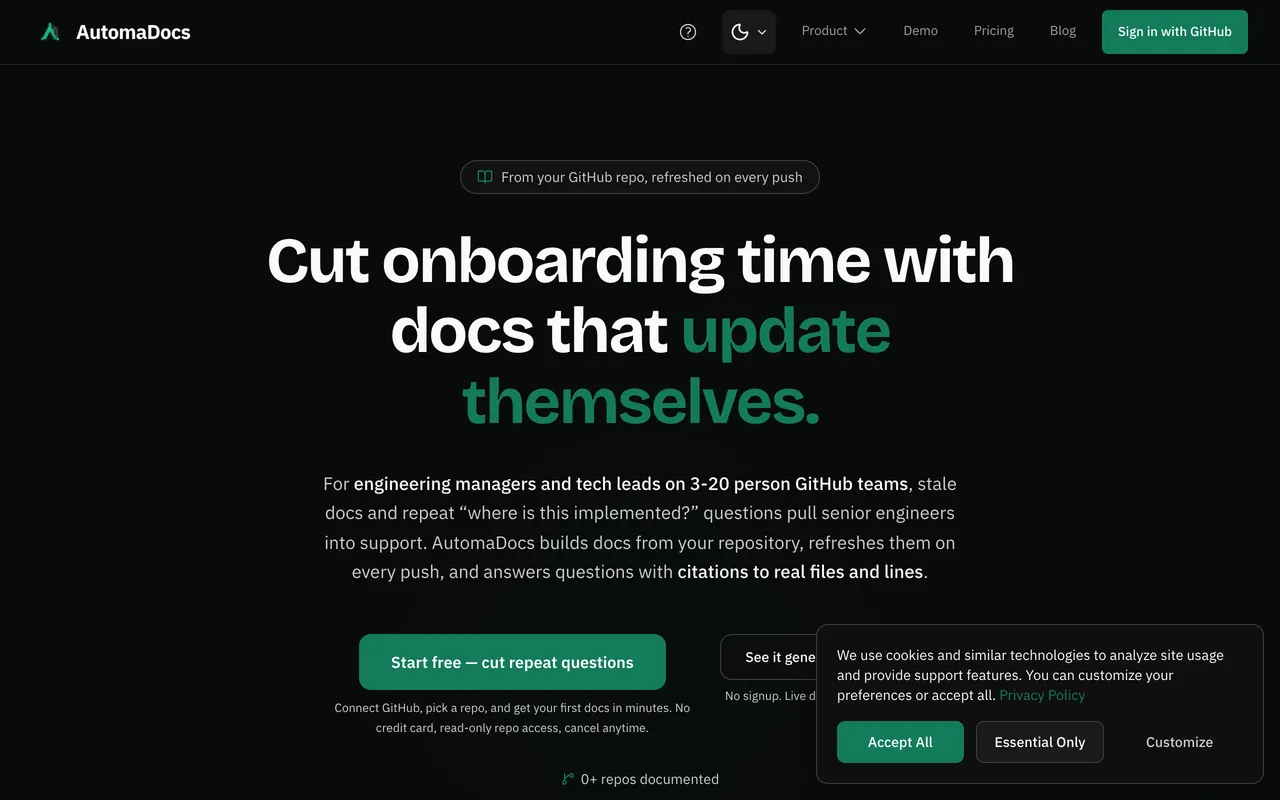
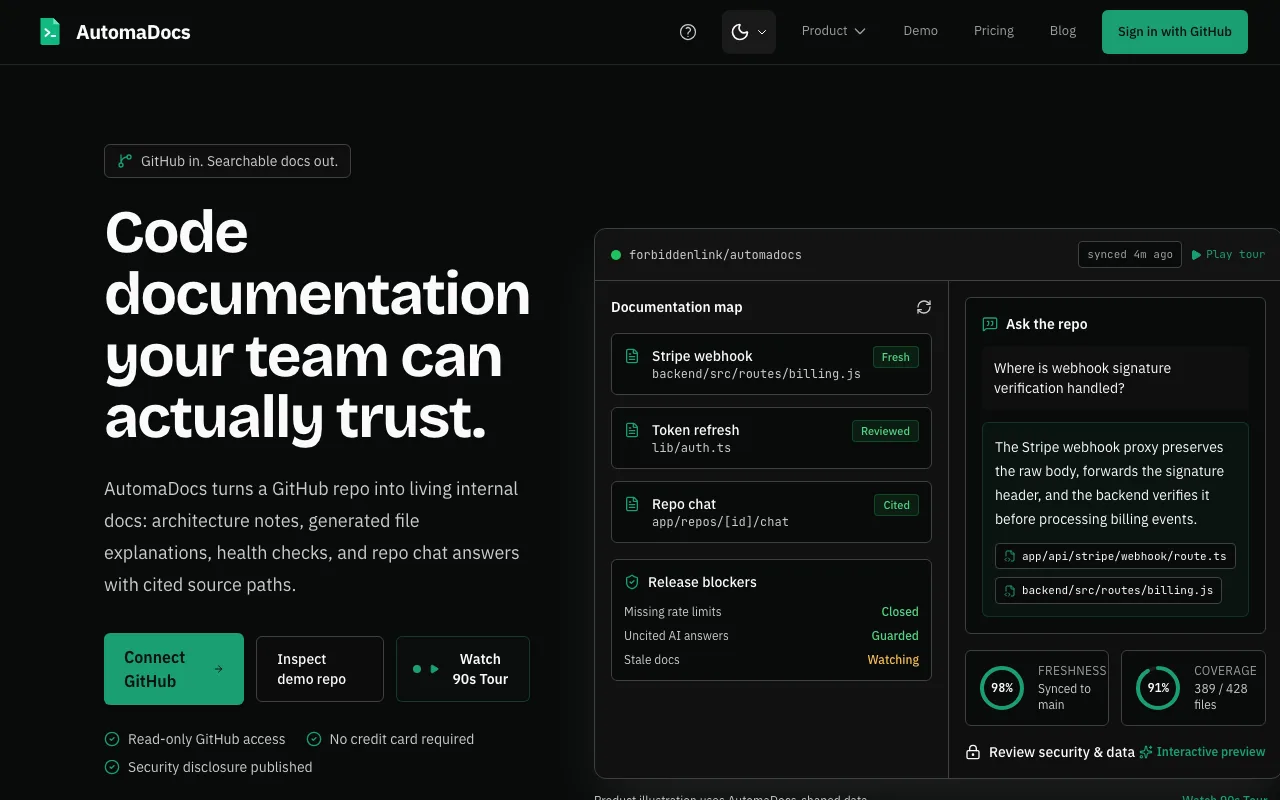
fix: style the explore case study modal and clear redesign follow-ups (#133)
The /explore modal renders ProjectCaseStudy outside any .editorial scope,
so none of its --le-* tokens resolved and it fell back to raw white
Space Grotesk with no rules or plate frame. Wrapping it in .editorial
with a forced dark set makes it match the case pages while staying dark
on the galaxy, whatever theme the visitor saved.

The AutomaDocs screenshot had a cookie banner covering the hero; it is
recaptured from the live site with the banner dismissed.

The site and about descriptions said "two organizations", which tells a
reader nothing. They now name the work the home page already states.

diff --git a/src/lib/constants.ts b/src/lib/constants.ts
@@ -47,7 +47,7 @@ export const SITE = {
   fullTitle: 'Elizabeth Stein | Full-Stack Engineer (Power Platform · Next.js · AI)',
   description: `Full-stack developer and designer. Sole developer on a Dynamics 365 platform live in production, Algolia Agent Studio winner, npm publisher. B.S. Summa Cum Laude. ${totalProjects} projects shipped; the eight that matter are on the front page.`,
   shortDescription:
-    'Full-stack developer and designer shipping production software across two organizations. Dynamics 365 platform in production, $750 Algolia Agent Studio winner, npm publisher, MCP author.',
+    'Full-stack developer and designer. Sole developer on a Dynamics 365 platform in production for a cybersecurity nonprofit, 11 client sites on Craft CMS at Rocketpark, $750 Algolia Agent Studio winner, npm publisher, MCP author.',
   /** One-line POV for hero / storytelling surfaces (the /explore galaxy + entrance). */
   narrativeThesis:
     "I design and build software that's actually running in production. Sole developer on a Dynamics 365 platform, Algolia Agent Studio winner, and I ship MCP servers instead of just consuming them.",

diff --git a/src/app/about/page.tsx b/src/app/about/page.tsx
@@ -8,7 +8,7 @@ import { allProjects, galaxies } from '@/lib/galaxyData'
 import styles from './about.module.css'
 
 const aboutDescription =
-  "Capella B.S., Summa Cum Laude (3.98 GPA, conferred March 2026). Sole developer on a cybersecurity nonprofit's security-readiness platform (Dynamics 365, in production). Algolia Agent Studio Challenge winner. Concurrent paid work at two organizations."
+  "Capella B.S., Summa Cum Laude (3.98 GPA, conferred March 2026). Sole developer on a cybersecurity nonprofit's security-readiness platform (Dynamics 365, in production). Algolia Agent Studio Challenge winner. Eleven client sites on Craft CMS at Rocketpark."
 
 export const metadata: Metadata = {
   title: 'About',

diff --git a/src/components/ui/ProjectModal.tsx b/src/components/ui/ProjectModal.tsx
@@ -272,8 +272,11 @@ export function ProjectModal() {
                   </motion.button>
                 )}
 
-                {/* Reuse the same component used in /work/[slug] */}
-                <ProjectCaseStudy project={project} />
+                {/* Reuse the same component used in /work/[slug]. It is styled by the editorial
+                    tokens, which only exist inside an .editorial scope. */}
+                <div className="editorial eForceDark relative z-20 rounded-t-lg px-6 pt-20 md:px-10">
+                  <ProjectCaseStudy project={project} />
+                </div>
 
                 {/* View full page link */}
                 <div className="px-8 pb-8">

diff --git a/src/styles/editorial.css b/src/styles/editorial.css
@@ -98,7 +98,10 @@
     --le-cat-experimental: #e6c069;
   }
 }
-:root[data-theme="dark"] .editorial {
+/* .eForceDark: the /explore project modal sits on the dark galaxy, so it keeps the dark
+   set whatever the saved theme. Doubled class so it outranks the light-toggle rule below. */
+:root[data-theme="dark"] .editorial,
+:root .editorial.editorial.eForceDark {
   --le-paper: #141109;
   --le-paper-2: #1c1810;
   --le-paper-3: #241f15;
